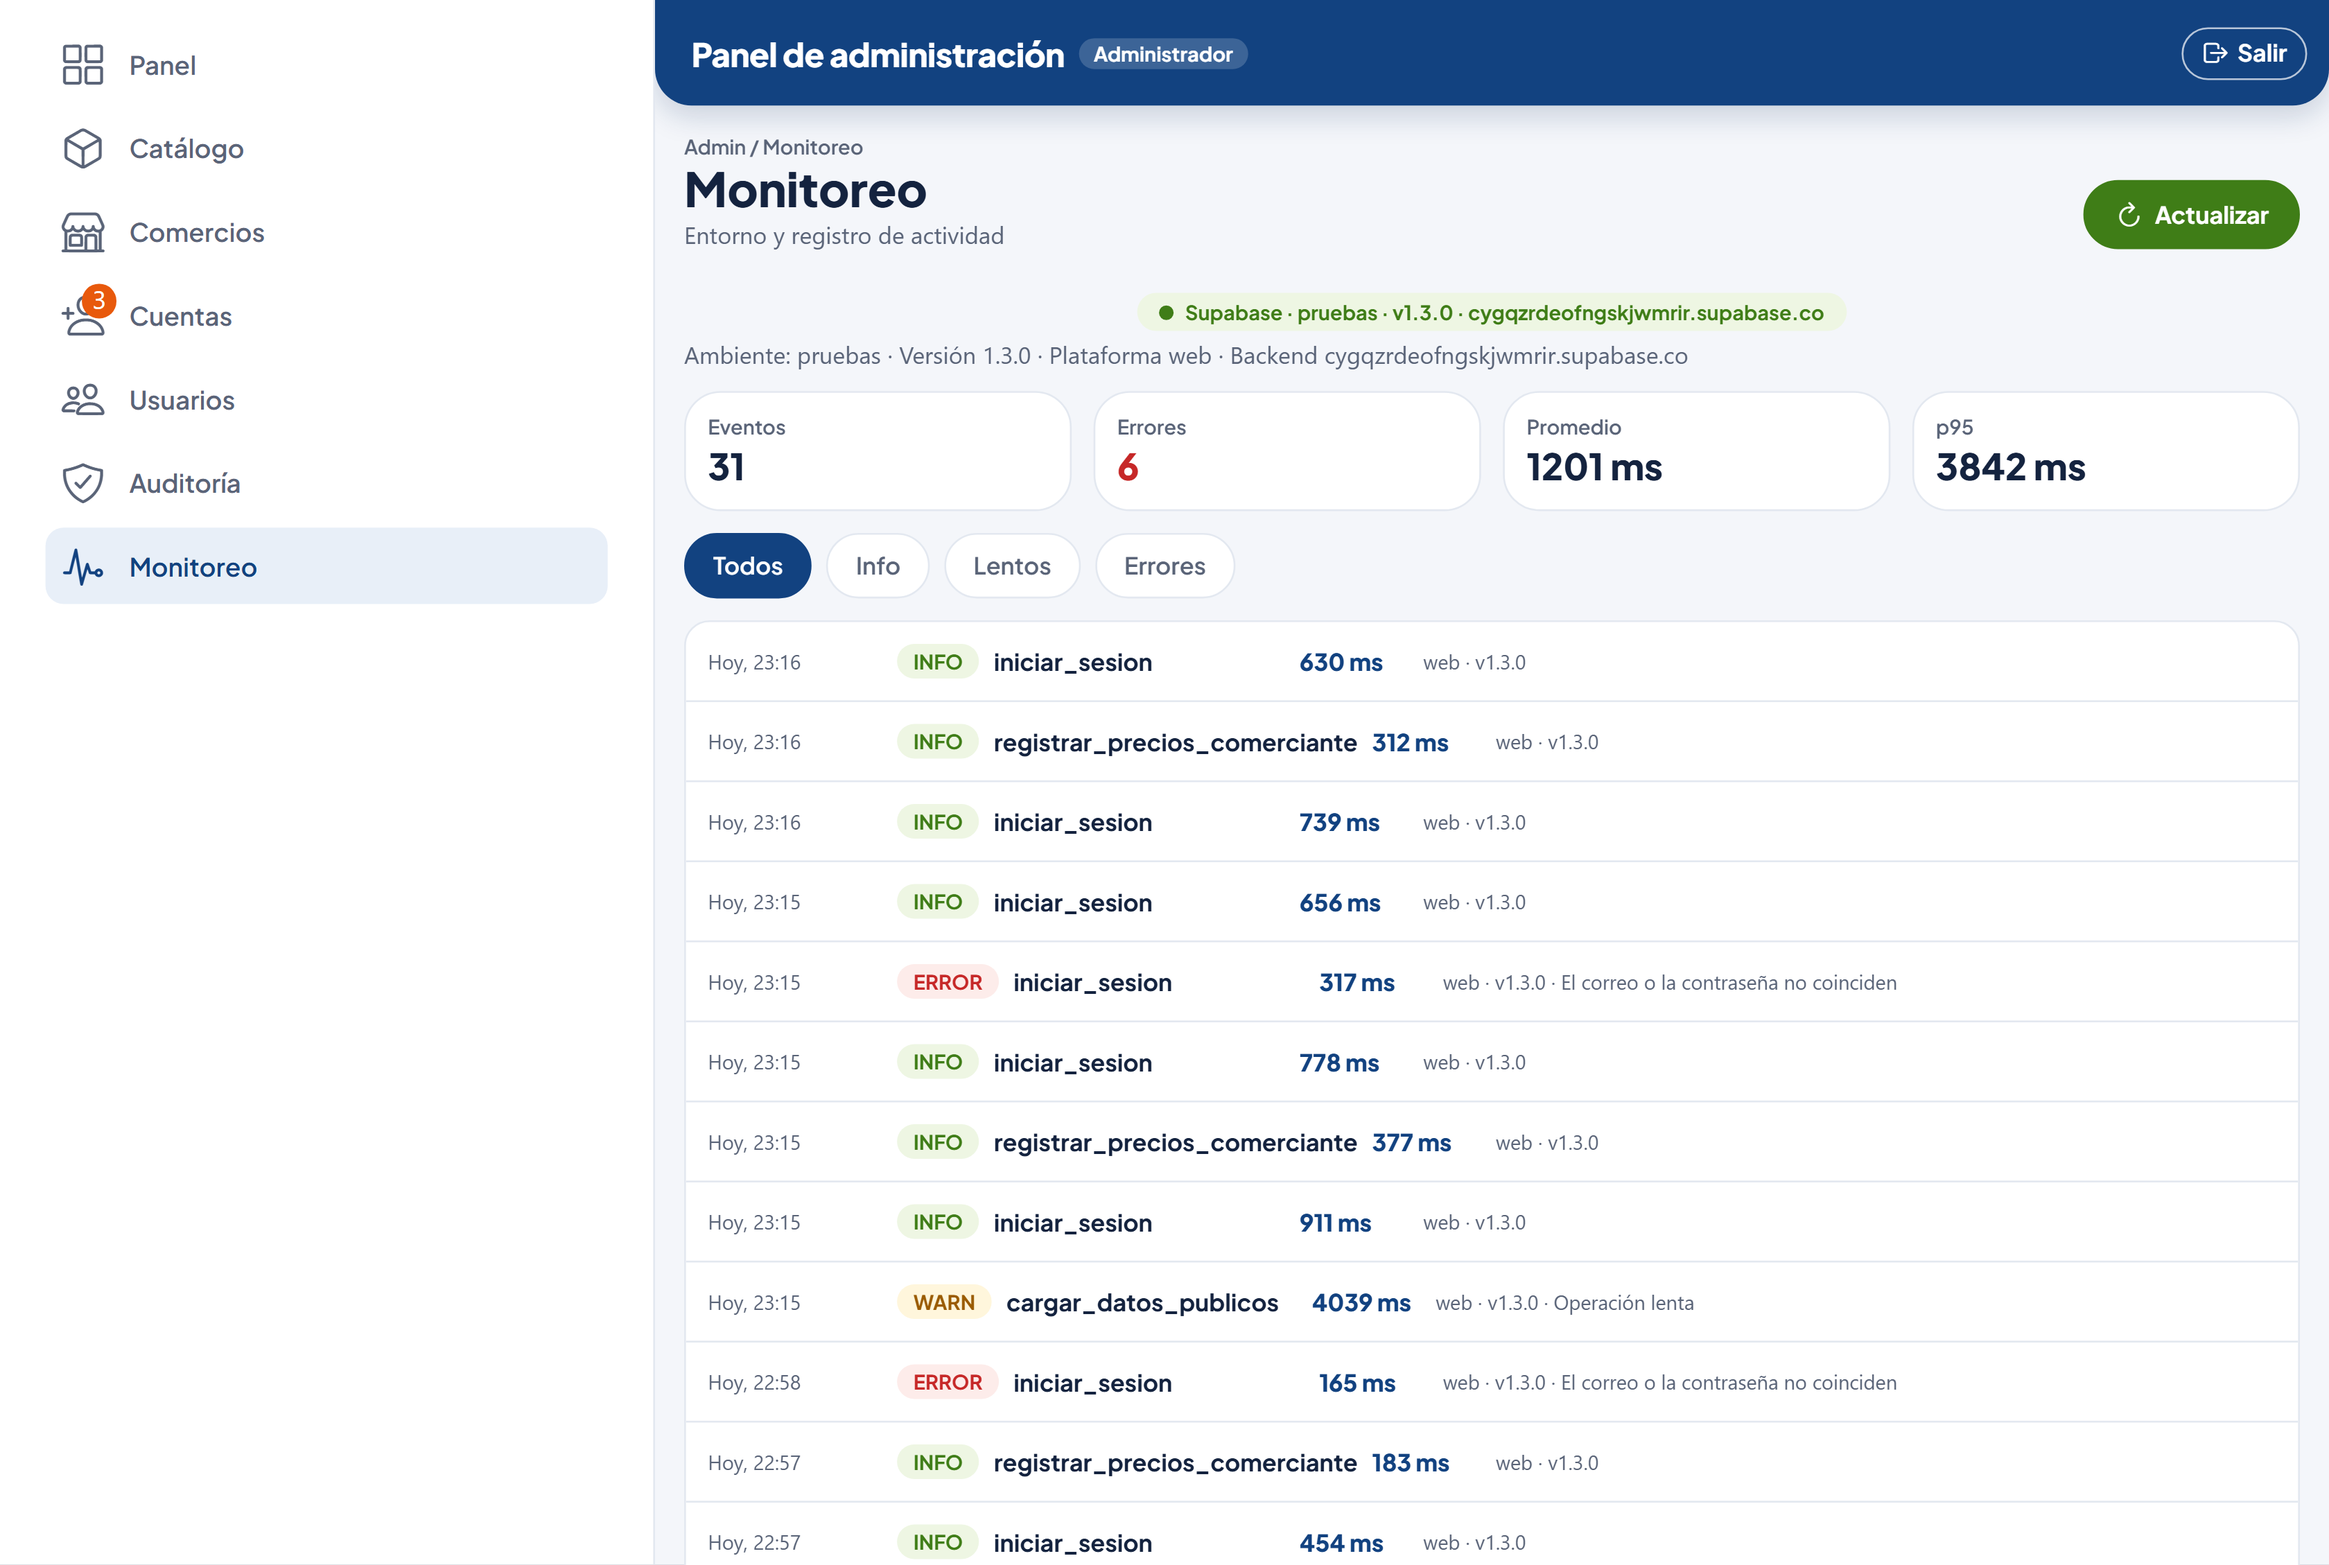
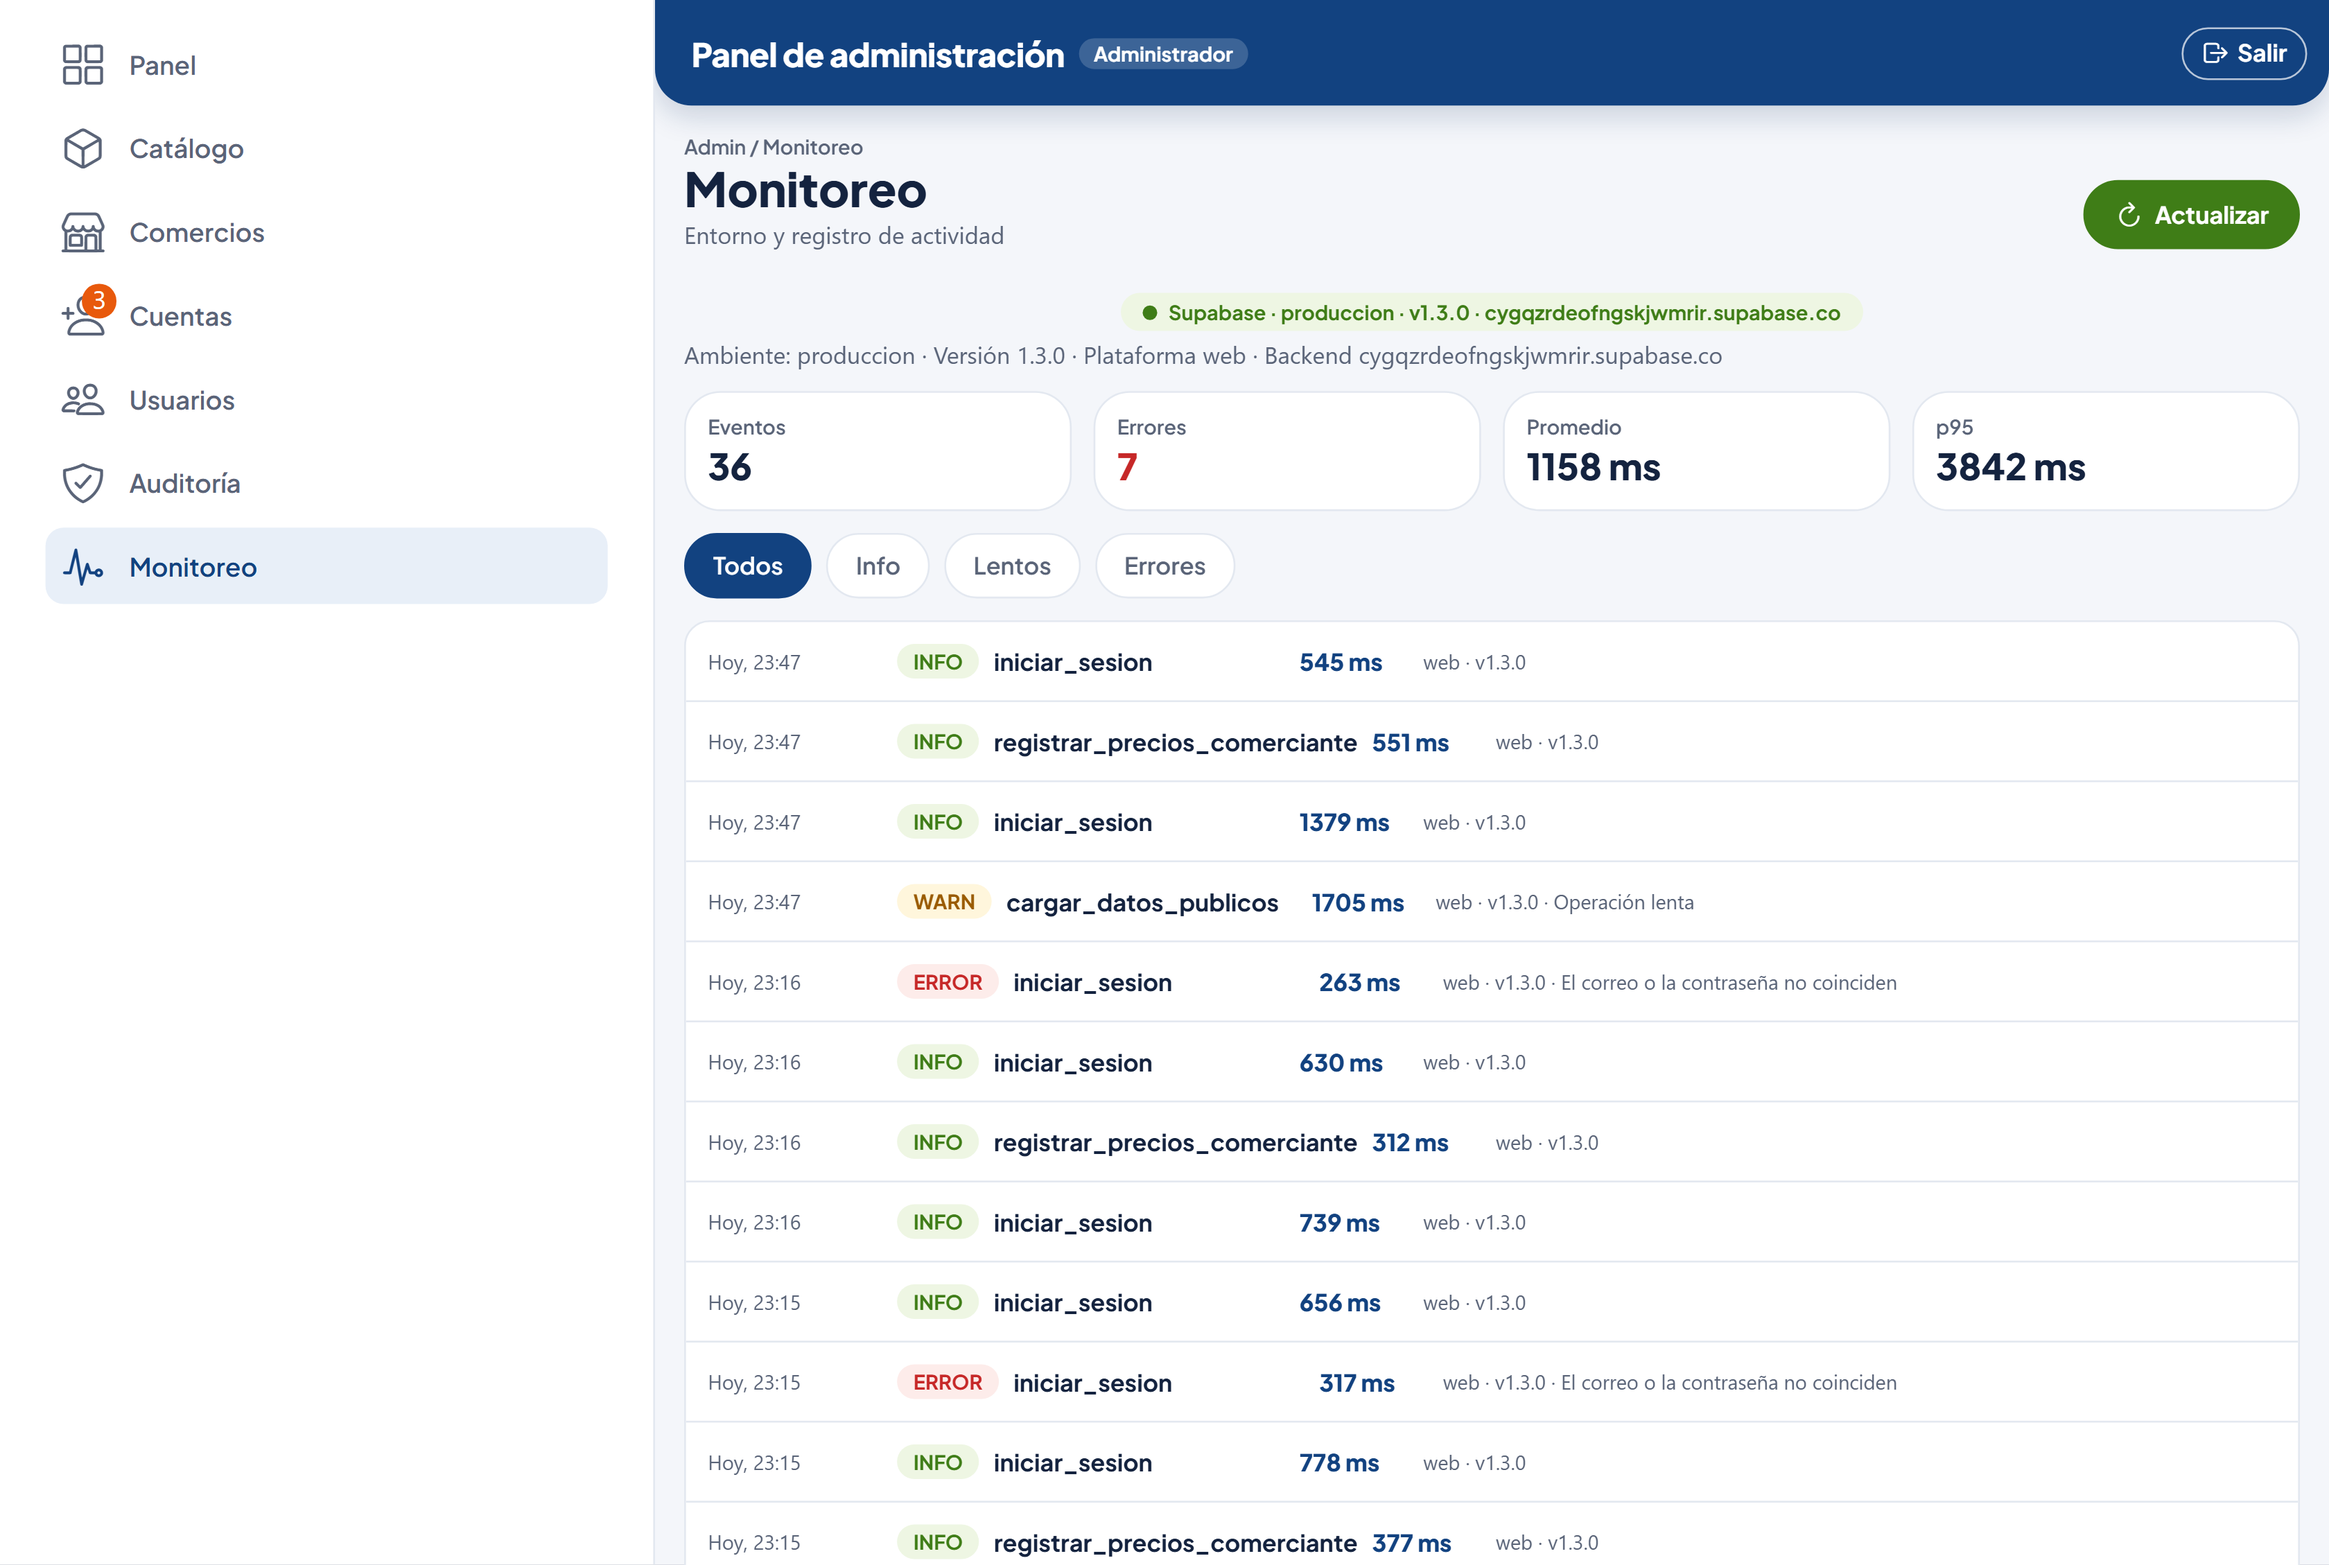
Despliegue web 1.3.0 en EAS Hosting y validación E2E contra la URL publicada
- Versión web publicada en https://observatorio-pac--e3syd60fmo.expo.app
  (entorno produccion, conectada a Supabase).
- Las 4 pruebas E2E pasan contra la URL publicada; capturas actualizadas.
- Documentación con la URL y los pasos para promoverla a producción.

diff --git a/docs/EV3-respuestas.md b/docs/EV3-respuestas.md
@@ -242,10 +242,10 @@ La app se conecta directamente a Supabase con la URL y la clave publicable; cada
 
 - **Base de datos y backend:** desplegados en Supabase (`https://cygqzrdeofngskjwmrir.supabase.co`), con 7 migraciones aplicadas, datos de prueba y 2 Edge Functions activas (`registro-comerciante` v1, `admin-usuarios` v1).
 - **App 1.3.0:**
-  - Build de producción web generado con `npx expo export -p web` y probado con `npx expo serve` (entorno "pruebas"), contra la base real.
-  - ✏ Publicación en EAS Hosting: `npx eas-cli@latest login` y luego `npx eas-cli@latest deploy --prod` → URL: ✏
-  - ✏ APK: `npx eas-cli@latest build -p android --profile preview` → enlace de descarga: ✏
-- **Cómo acceder:** abrir la URL web o instalar el APK. Las cuentas de prueba están en el README.
+  - Build de producción web generado con `npx expo export -p web` (`EXPO_PUBLIC_APP_ENV=produccion`), probado primero en local con `npx expo serve` contra la base real.
+  - **Publicado en EAS Hosting el 22-11-2026** con `npx eas-cli@latest deploy`: **https://observatorio-pac--e3syd60fmo.expo.app** (despliegue de vista previa: tiene su propia URL y no reemplaza la versión anterior). Para dejarla como versión principal en `https://observatorio-pac.expo.app`: `npx eas-cli@latest deploy --prod`.
+  - APK (opcional): `npx eas-cli@latest build -p android --profile preview` → enlace de descarga: ✏
+- **Cómo acceder:** abrir la URL web desde el navegador del computador o del celular. La pantalla de inicio muestra «Supabase · produccion · v1.3.0». Las cuentas de prueba están en el README.
 
 ### b) Monitoreo y logs
 
@@ -266,6 +266,8 @@ Después de desplegar la base y generar el build de producción se ejecutó el f
 4. En **otro navegador sin sesión**, el comparador muestra Minimarket El Sol a $860 con la etiqueta «Más barato».
 
 Esto confirmó que la app, la autenticación, la base de datos y las políticas estaban operativas. Capturas `01` a `05` en [`evidencias/`](evidencias/).
+
+Las mismas 4 pruebas E2E se repitieron **contra la URL publicada** (`E2E_BASE_URL=https://observatorio-pac--e3syd60fmo.expo.app npm run test:e2e`): **4/4 en 40,9 s**. Las capturas de `docs/evidencias/` corresponden a esa ejecución; la `08` muestra el entorno «Supabase · produccion · v1.3.0».
 
 ### d) Corrección de errores
 

diff --git a/README.md b/README.md
@@ -153,7 +153,7 @@ npx expo-doctor            # diagnostica dependencias y configuración
 |---|---|---|
 | Desarrollo | `npx expo start` en el computador | `.env.local` (`EXPO_PUBLIC_APP_ENV=desarrollo`) |
 | Pruebas | APK de EAS (`preview`) / build web local | `eas.json` → perfil `preview` (`EXPO_PUBLIC_APP_ENV=pruebas`) |
-| Producción | Web en EAS Hosting · APK/AAB de EAS (`production`) | `eas.json` → perfil `production` |
+| Producción | Web en EAS Hosting: https://observatorio-pac--e3syd60fmo.expo.app · APK/AAB de EAS (`production`) | `eas.json` → perfil `production` |
 | Base de datos | Supabase `observatorio-precios-pac` (sa-east-1) | Migraciones en `supabase/migrations` |
 
 ```bash
